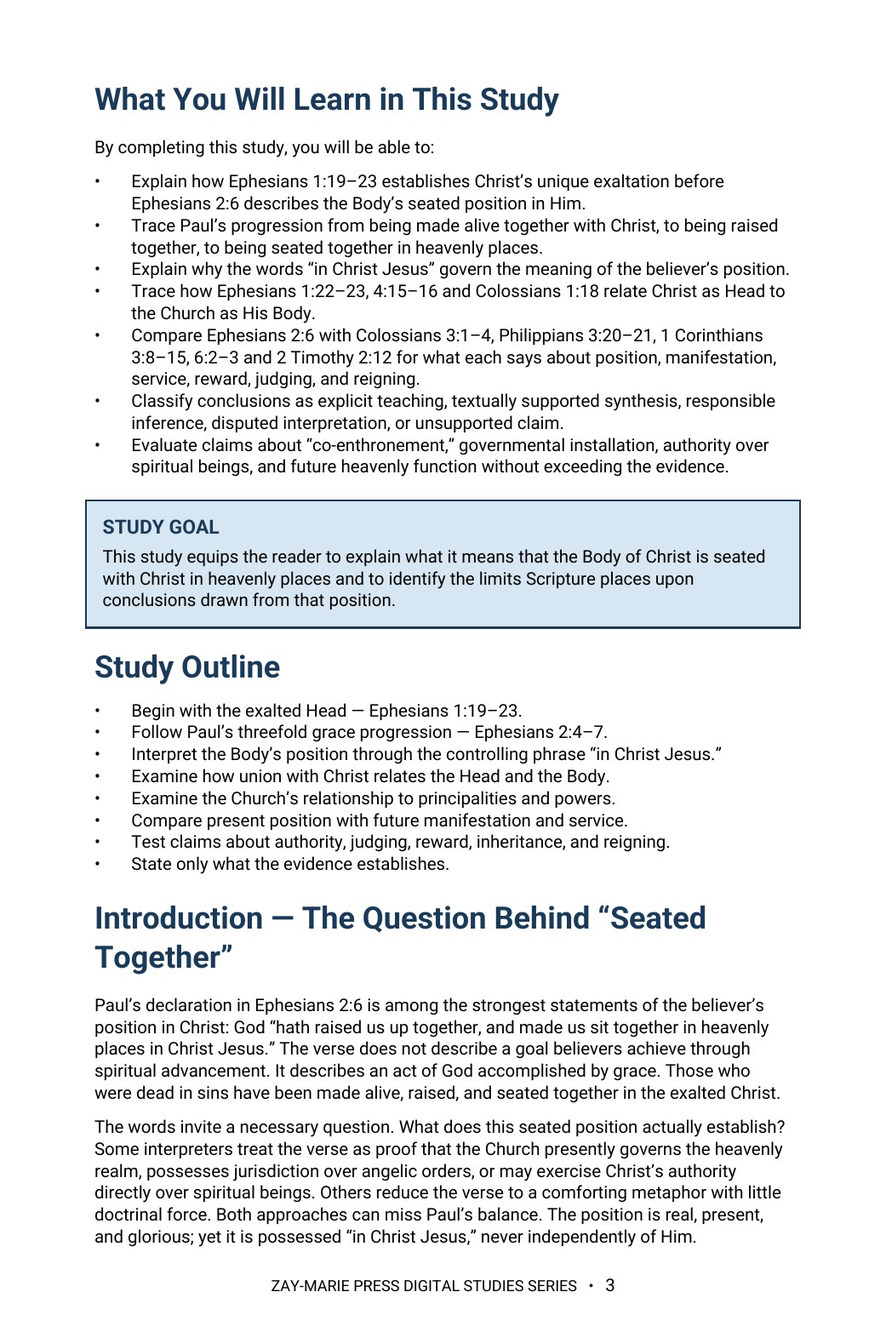
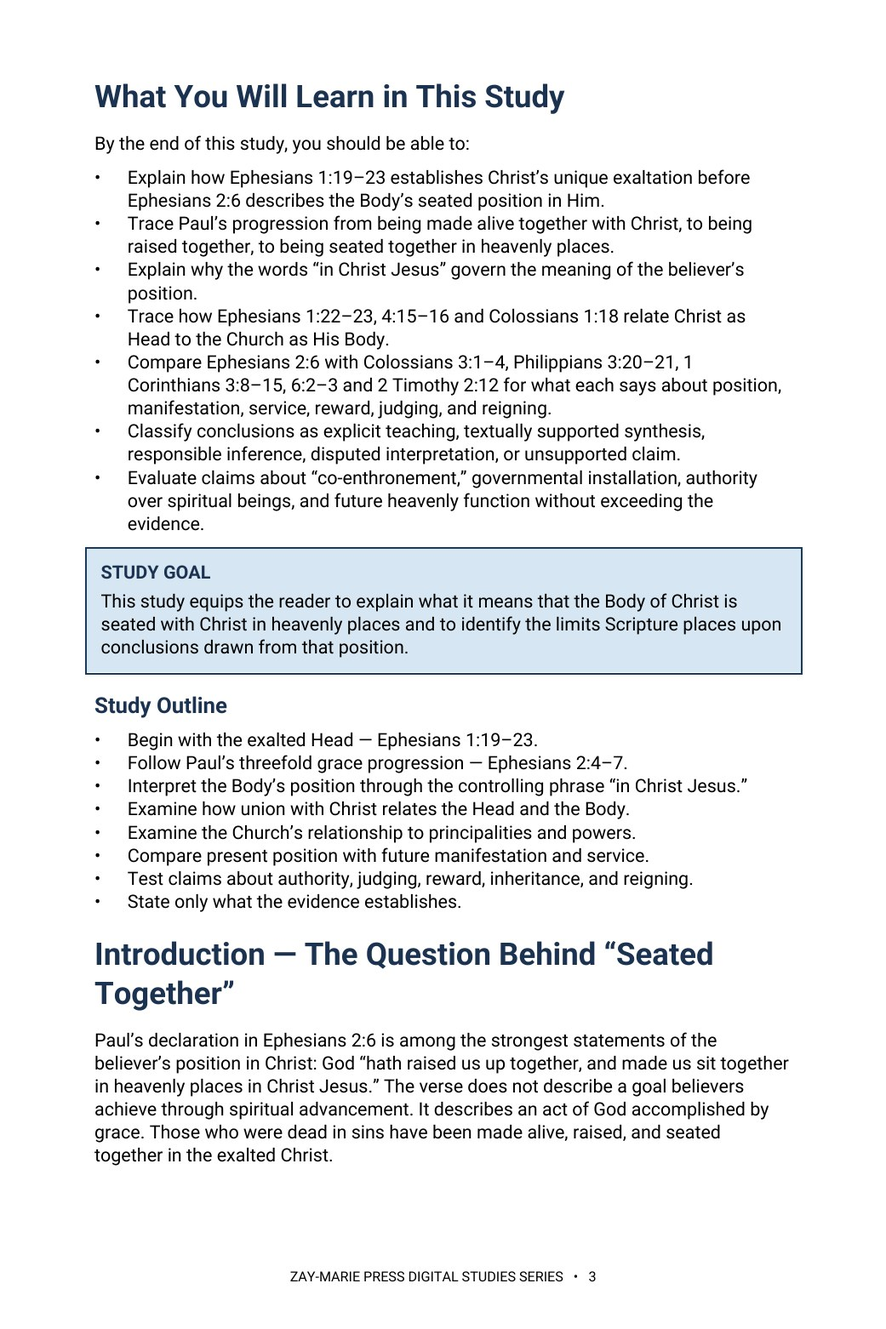
Study 30: page count 18, rebuilt preview pages and trackers for Roboto 10 pt build on current page
Claude-Session: https://claude.ai/code/session_01HC7bs9KYP2scp4hCL6DkTp

Changed region(s): [[0.0922, 0.0615, 0.9222, 0.9834]]

diff --git a/study-30-seated-with-christ-in-heavenly-places.html b/study-30-seated-with-christ-in-heavenly-places.html
@@ -2,12 +2,12 @@
 <html lang="en"><head><meta charset="utf-8"><meta name="viewport" content="width=device-width,initial-scale=1"><title>Seated With Christ in Heavenly Places - Study 30 | Zay-Marie Press</title><meta name="description" content="Examine what it means that the Body of Christ is seated with Christ, with careful boundaries for present position, future service, judging, and reigning."><link rel="stylesheet" href="styles.css?v=20260921-4"><link rel="icon" type="image/png" href="assets/zay-marie-press-favicon.png"><style>
 .study-detail-page{background:#fff;color:#252525}.detail-hero{background:linear-gradient(135deg,#f8f5ec,#e3ece2);padding:58px 0}.detail-hero-grid{display:grid;grid-template-columns:minmax(250px,.72fr) minmax(0,1.28fr);gap:58px;align-items:center}.detail-cover{max-width:390px;margin:auto}.detail-cover img{display:block;width:100%;height:auto;box-shadow:0 14px 36px rgba(8,45,69,.18)}.detail-hero h1{font-size:clamp(2.7rem,5vw,4.7rem);line-height:1.02;margin:8px 0 10px;color:#143823}.detail-subtitle{font-family:Georgia,serif;font-size:1.35rem;font-weight:700;color:#082d45;margin:0 0 7px}.detail-kicker{font-family:Georgia,serif;font-style:italic;font-size:1.05rem;color:#4a4a44;margin:0 0 22px}.detail-copy{font-size:1.08rem;line-height:1.65;max-width:760px}.detail-buyline{display:flex;align-items:center;gap:18px;flex-wrap:wrap;margin-top:25px}.detail-price{font-family:Georgia,serif;font-size:2rem;font-weight:700;color:#143823}.detail-format,.preview-card .page-no{font-family:Arial,sans-serif;font-size:.76rem;font-weight:700;letter-spacing:.1em;text-transform:uppercase;color:#176b3a}.detail-button{display:inline-block;background:#176b3a;color:#fff;padding:13px 22px;font-family:Arial,sans-serif;font-size:.8rem;font-weight:700;letter-spacing:.07em;text-transform:uppercase}.detail-button.pending{opacity:.72;cursor:default}.detail-section{padding:66px 0}.detail-section.soft{background:#f6f7f2}.detail-section.cream{background:#faf8f2}.detail-section h2{color:#143823;margin:6px 0 18px;font-size:clamp(2rem,3.4vw,3rem)}.detail-section .lead{max-width:920px;font-size:1.1rem;line-height:1.62}.study-distinction{max-width:920px;margin-top:28px;margin-bottom:28px;padding:26px 28px;background:#fff;border:1px solid #d8d1bf;border-left:4px solid #b8871c}.study-distinction h3{margin:0 0 10px;color:#143823}.study-distinction p{margin:0 0 14px;line-height:1.62}.study-distinction a{font-family:Arial,sans-serif;font-weight:700;color:#176b3a;text-decoration:none}.study-points{display:grid;grid-template-columns:repeat(3,1fr);gap:18px;margin-top:28px;margin-bottom:28px}.study-point,.scripture-card,.preview-card,.include-item{background:#fff;border:1px solid var(--line);text-align:left}.study-point{border-top:3px solid #176b3a;padding:22px}.study-point h3{color:#143823;margin:0 0 8px;font-size:1.2rem}.study-point p,.scripture-card p,.preview-card p,.include-item p{margin:0;line-height:1.55}.scripture-grid{display:grid;grid-template-columns:repeat(4,1fr);gap:14px;margin-top:24px;margin-bottom:24px}.scripture-card{padding:22px 20px;color:#143823}.scripture-card h3{margin:0 0 9px;font-family:Georgia,serif;font-size:1rem;line-height:1.35}.scripture-card p{font-size:.94rem;color:#45453f}.excerpt{max-width:900px;margin:28px auto;border-left:4px solid #b8871c;padding:10px 0 10px 28px}.excerpt blockquote{font-family:Georgia,serif;font-size:clamp(1.45rem,2.5vw,2rem);line-height:1.45;color:#143823;margin:0 0 16px}.excerpt p{line-height:1.6;margin:0}.preview-grid{display:grid;grid-template-columns:repeat(2,1fr);gap:20px;margin-top:28px;margin-bottom:28px}.preview-card{padding:18px;min-height:210px;box-shadow:0 7px 20px rgba(20,40,25,.05)}.preview-image-link{display:block;margin:0 0 18px}.preview-image-link img{display:block;width:100%;height:auto;border:1px solid #d8d1bf;box-shadow:0 8px 22px rgba(20,40,25,.1);transition:transform .18s ease,box-shadow .18s ease}.preview-image-link:hover img{transform:translateY(-2px);box-shadow:0 11px 28px rgba(20,40,25,.16)}.preview-card h3{color:#143823;margin:8px 0 10px}.preview-instruction{margin:10px 0 0;font-family:Arial,sans-serif;font-size:.78rem;letter-spacing:.04em;color:#5b5b55}.includes-grid{display:grid;grid-template-columns:repeat(4,1fr);gap:14px;margin-top:26px}.include-item{padding:22px 20px;color:#143823}.include-item h3{margin:0 0 9px;font-family:Arial,sans-serif;font-size:.86rem;line-height:1.35;letter-spacing:.02em}.include-item p{font-size:.94rem;color:#45453f}.final-buy{background:#082d45;color:#fff;border-top:4px solid #b8871c;padding:42px 48px;display:grid;grid-template-columns:1fr auto;gap:36px;align-items:center}.final-buy .eyebrow,.final-buy h2,.final-buy .detail-price{color:#fff}.final-buy h2{margin:7px 0 6px}.final-buy p{margin:0}.final-offer{text-align:center}.back-link{display:inline-block;margin-top:18px;color:#143823;font-family:Arial,sans-serif;font-weight:700;text-decoration:none}.preview-lightbox{position:fixed;inset:0;z-index:10000;display:none;align-items:flex-start;justify-content:center;background:rgba(8,22,16,.88);padding:24px;overflow:auto}.preview-lightbox.open{display:flex}.preview-lightbox img{display:block;width:auto;height:auto;max-width:none;box-shadow:0 18px 55px rgba(0,0,0,.4);background:#fff}.preview-lightbox-close{position:fixed;top:18px;right:24px;z-index:10001;width:46px;height:46px;border:1px solid rgba(255,255,255,.65);border-radius:50%;background:rgba(0,0,0,.55);color:#fff;font:32px/1 Arial,sans-serif;cursor:pointer}@media(max-width:900px){.detail-hero-grid{grid-template-columns:1fr;gap:34px}.detail-cover{max-width:330px}.study-points{grid-template-columns:repeat(2,1fr)}.scripture-grid,.includes-grid{grid-template-columns:repeat(2,1fr)}.preview-grid,.final-buy{grid-template-columns:1fr}.final-offer{text-align:left}}@media(max-width:560px){.detail-hero{padding:42px 0}.detail-section{padding:50px 0}.study-points,.scripture-grid,.includes-grid{grid-template-columns:1fr}.final-buy{padding:32px 24px}.detail-buyline{align-items:flex-start;flex-direction:column;gap:8px}.preview-lightbox{padding:58px 10px 24px}.preview-lightbox img{width:100%;max-width:100%;height:auto}}</style></head><body class="study-detail-page">
 <header class="site-header"><div class="wrap nav"><a class="logo" href="index.html" aria-label="Zay-Marie Press home"><img src="assets/zay-marie-press-logo-hq.png" alt="Zay-Marie Press" width="420" height="238"></a><button class="menu-toggle" type="button" aria-expanded="false" aria-controls="primary-nav">MENU</button><nav aria-label="Primary navigation" class="primary-nav" id="primary-nav"><a href="index.html">HOME</a><a href="books.html">BOOKS</a><a href="series.html">SERIES</a><a class="active" aria-current="page" href="digital-studies.html">DIGITAL STUDIES</a><a href="biblical-hermeneutics-course.html">COURSE</a><a href="about.html">ABOUT</a><a href="resources.html">RESOURCES</a><a href="contact.html">CONTACT</a></nav></div></header><main>
-<section class="detail-hero"><div class="wrap detail-hero-grid"><div class="detail-cover"><picture><source srcset="assets/study-30-cover.webp" type="image/webp"><img src="assets/study-30-cover.jpg" alt="Seated With Christ in Heavenly Places - Study 30 cover"></picture></div><div><div class="eyebrow">STUDY 30 · DIGITAL STUDY</div><h1>Seated With Christ in Heavenly Places</h1><p class="detail-subtitle">The Meaning, Boundaries, and Future Implications of the Body’s Position in Christ</p><p class="detail-kicker">A focused examination of Ephesians 1:19–23 and 2:4–7</p><p class="detail-copy">Paul declares that God has made believers alive, raised them, and seated them together in heavenly places in Christ Jesus. This study explains the force of that position without weakening it or expanding it beyond the evidence.</p><p class="detail-copy">Follow the distinction between Christ as Head and the Church as His Body, present position and future manifestation, and explicit teaching and responsible inference.</p><div class="detail-buyline"><span class="detail-price">$5.99</span><span class="detail-format">Digital PDF · 17 Pages</span><span class="detail-button pending" aria-disabled="true">Checkout Coming Soon</span></div></div></div></section>
+<section class="detail-hero"><div class="wrap detail-hero-grid"><div class="detail-cover"><picture><source srcset="assets/study-30-cover.webp" type="image/webp"><img src="assets/study-30-cover.jpg" alt="Seated With Christ in Heavenly Places - Study 30 cover"></picture></div><div><div class="eyebrow">STUDY 30 · DIGITAL STUDY</div><h1>Seated With Christ in Heavenly Places</h1><p class="detail-subtitle">The Meaning, Boundaries, and Future Implications of the Body’s Position in Christ</p><p class="detail-kicker">A focused examination of Ephesians 1:19–23 and 2:4–7</p><p class="detail-copy">Paul declares that God has made believers alive, raised them, and seated them together in heavenly places in Christ Jesus. This study explains the force of that position without weakening it or expanding it beyond the evidence.</p><p class="detail-copy">Follow the distinction between Christ as Head and the Church as His Body, present position and future manifestation, and explicit teaching and responsible inference.</p><div class="detail-buyline"><span class="detail-price">$5.99</span><span class="detail-format">Digital PDF · 18 Pages</span><span class="detail-button pending" aria-disabled="true">Checkout Coming Soon</span></div></div></div></section>
 <section class="detail-section"><div class="wrap"><div class="eyebrow">ABOUT THIS STUDY</div><h2>What Does the Body’s Seated Position Establish?</h2><p class="lead">Ephesians first presents Christ raised and seated far above every principality, power, might, dominion, and name. It then presents believers as made alive, raised, and seated together in Him. Christ’s exaltation is primary; the Body’s position is derivative, relational, and wholly grounded in grace.</p><p class="lead">This study tests claims about co-enthronement, governmental installation, authority over spiritual beings, judging, reward, inheritance, and reigning. It affirms what Scripture states, labels responsible inference honestly, and rejects conclusions the passages do not establish.</p><p class="lead">This is not a study of the Body’s whole heavenly calling, which Study 5 maps across position, citizenship, hope, and purpose, nor of the believer’s full identity in Christ, which Study 16 surveys across union, standing, and conduct. Its task is narrower: to test Ephesians 2:6’s specific claim — that believers are seated with Christ — against the further, more ambitious claims sometimes built on it, and to keep what the text actually establishes distinct from what is merely inferred.</p><div class="study-distinction"><h3>How These Studies Relate</h3><p>Study 30 closely tests what being seated with Christ means in Ephesians 1–2, including the limits of claims about authority and service.</p><p><a href="study-05-the-heavenly-calling.html">Study 5 — The Heavenly Calling</a> Set this focused passage study within the Body’s wider heavenly calling, citizenship, hope, and purpose; the larger framework gives context without supplying details Ephesians 2:6 does not state.</p><p><a href="study-16-the-believers-identity-in-christ.html">Study 16 — The Believer's Identity in Christ</a> Relate the seated position to the believer’s broader standing and conduct in Christ, so positional truth and daily life are kept together without confusing them.</p><p><a href="study-57-the-eternal-purpose-of-god.html">Study 57 — The Eternal Purpose of God</a> Connect the Body’s position in Ephesians 2:6 to the wisdom made known through the Church in Ephesians 3:10, while testing what each text actually says about authority.</p><p class="connection-guide-link"><a href="study-connections.html#study-30">Explore the full connection guide for Study 30 →</a></p></div></div></section>
 <section class="detail-section soft"><div class="wrap"><div class="eyebrow">WHAT YOU’LL STUDY</div><h2>Move From Christ’s Exaltation to the Body’s Position</h2><div class="study-points"><div class="study-point"><h3>Christ Above Every Authority</h3><p>Begin with the exalted Head before interpreting the Body’s seated position.</p></div><div class="study-point"><h3>Made Alive, Raised, and Seated</h3><p>Follow Paul’s threefold grace progression in Ephesians 2:4–7.</p></div><div class="study-point"><h3>In Christ Jesus</h3><p>Let union with Christ govern the meaning and boundaries of the doctrine.</p></div><div class="study-point"><h3>Head and Body</h3><p>Trace how Ephesians 1:22–23, 4:15–16 and Colossians 1:18 relate Christ as Head to the Church as His Body.</p></div><div class="study-point"><h3>Principalities and Powers</h3><p>Compare what Ephesians 3:10 says the Church does before principalities and powers with claims of present jurisdiction over spiritual beings.</p></div><div class="study-point"><h3>Position and Future Function</h3><p>Compare Ephesians 2:6 with Colossians 3:1–4, Philippians 3:20–21 and 1 Corinthians 3:8–15 and 6:2–3 on position, manifestation, service, reward, judging, and reigning.</p></div></div></div></section>
 <section class="detail-section cream"><div class="wrap"><div class="eyebrow">KEY SCRIPTURES</div><h2>Build the Doctrine From the Text</h2><div class="scripture-grid"><div class="scripture-card"><h3>Ephesians 1:19–23</h3><p>Christ raised, seated, and placed far above every authority as Head over all things to the Church.</p></div><div class="scripture-card"><h3>Ephesians 2:4–7</h3><p>The Body made alive, raised, and seated together in heavenly places in Christ Jesus.</p></div><div class="scripture-card"><h3>Ephesians 3:8–11</h3><p>God’s manifold wisdom made known through the Church to heavenly authorities.</p></div><div class="scripture-card"><h3>Ephesians 6:10–18</h3><p>Spiritual conflict answered through God’s armor, prayer, watchfulness, and steadfastness.</p></div><div class="scripture-card"><h3>Colossians 2:9–10</h3><p>Completeness in Christ, who remains Head of all principality and power.</p></div><div class="scripture-card"><h3>Colossians 3:1–4</h3><p>Present hidden life with Christ and future manifestation with Him in glory.</p></div><div class="scripture-card"><h3>1 Corinthians 6:2–3</h3><p>Future judging of the world and angels without present independent jurisdiction.</p></div><div class="scripture-card"><h3>2 Timothy 2:11–13</h3><p>Reigning with Christ considered in its context of endurance and faithfulness.</p></div></div></div></section>
 <section class="detail-section"><div class="wrap"><div class="eyebrow">FROM THE STUDY</div><h2>Union Does Not Erase Headship</h2><div class="excerpt"><blockquote>“The Body’s seated position is greater than a metaphor but more carefully bounded than triumphalistic interpretations allow.”</blockquote><p>The safest controlling statement is direct: believers are seated with Christ because they are in Christ. Participation in the Head’s life and purpose does not erase the distinction between the Head and His Body.</p></div></div></section>
 <section class="detail-section soft"><div class="wrap"><div class="eyebrow">A LOOK INSIDE</div><h2>Preview the Study Before You Purchase</h2><p class="preview-instruction">Click any page to enlarge it for reading.</p><div class="preview-grid"><div class="preview-card"><a class="preview-image-link" data-preview-lightbox href="assets/study-30-page-2.jpg"><img src="assets/study-30-page-2.jpg" alt="Study 30 interior preview — page 2, table of contents"></a><div class="page-no">Page 2</div><h3>Table of Contents</h3><p>See the full structure of the study, from the introduction through the final synthesis.</p></div><div class="preview-card"><a class="preview-image-link" data-preview-lightbox href="assets/study-30-page-3.jpg"><img src="assets/study-30-page-3.jpg" alt="Study 30 interior preview — page 3, what you will learn and study outline"></a><div class="page-no">Page 3</div><h3>What You Will Learn</h3><p>Begin with the outcomes you will work toward and the route the study takes through Ephesians, Colossians, and the Corinthian and Timothy passages.</p></div><div class="preview-card"><a class="preview-image-link" data-preview-lightbox href="assets/study-30-page-5.jpg"><img src="assets/study-30-page-5.jpg" alt="Study 30 interior preview — page 5, Christ’s headship in Ephesians 1"></a><div class="page-no">Page 5</div><h3>Christ’s Headship and the Church</h3><p>Read what Ephesians 1:19–23 explicitly establishes before turning to the Body’s position in Ephesians 2.</p></div></div></div></section>
-<section class="detail-section"><div class="wrap"><div class="eyebrow">WHAT’S INCLUDED</div><h2>A Focused Study Built for<br>Understanding and Teaching</h2><div class="includes-grid"><div class="include-item"><h3>17-Page Biblical Study</h3><p>A concentrated doctrinal examination without padding or repetition of Study 5.</p></div><div class="include-item"><h3>Ten Teaching Sections</h3><p>Move from Christ’s exaltation through position, boundaries, evidence, and application.</p></div><div class="include-item"><h3>Six Doctrinal Controls</h3><p>Retain headship, grace, union, evidence, time, and interpretive boundaries.</p></div><div class="include-item"><h3>Evidence Ledger</h3><p>Separate explicit teaching, synthesis, inference, disputed language, and unsupported claims.</p></div><div class="include-item"><h3>Scripture-Tracing Exercise</h3><p>Record subjects, actions, time horizons, and what each passage leaves unstated.</p></div><div class="include-item"><h3>Fourteen Review Questions</h3><p>Test the argument concerning position, authority, manifestation, judging, and reigning.</p></div><div class="include-item"><h3>Teaching Outline</h3><p>A ready framework for presenting the doctrine with clarity and restraint.</p></div><div class="include-item"><h3>Guided Further Study</h3><p>Extend the investigation across Ephesians, Colossians, Corinthians, and Timothy.</p></div></div></div></section>
-<section class="detail-section cream"><div class="wrap"><div class="final-buy"><div><div class="eyebrow">STUDY 30 · DIGITAL STUDY</div><h2>Seated With Christ in Heavenly Places</h2><p>Digital PDF · 17 Pages · For personal use</p></div><div class="final-offer"><div class="detail-price">$5.99</div><span class="detail-button pending" aria-disabled="true">Checkout Coming Soon</span></div></div><a class="back-link" href="digital-studies.html">← Back to All Digital Studies</a></div></section><section class="study-method-course-bridge"><div class="wrap"><div class="study-method-course-panel"><div><div class="eyebrow">BUILD THE INTERPRETIVE METHOD</div><h2>Want More Than a Focused Study?</h2><p>Digital Studies examine particular biblical subjects and difficult passages. The 40-lesson Biblical Hermeneutics course teaches a complete, repeatable method for establishing meaning in context, determining proper assignment, and making responsible application.</p></div><a class="btn btn-primary" href="biblical-hermeneutics-course.html">BIBLICAL HERMENEUTICS COURSE</a></div></div></section></main>
+<section class="detail-section"><div class="wrap"><div class="eyebrow">WHAT’S INCLUDED</div><h2>A Focused Study Built for<br>Understanding and Teaching</h2><div class="includes-grid"><div class="include-item"><h3>18-Page Biblical Study</h3><p>A concentrated doctrinal examination without padding or repetition of Study 5.</p></div><div class="include-item"><h3>Ten Teaching Sections</h3><p>Move from Christ’s exaltation through position, boundaries, evidence, and application.</p></div><div class="include-item"><h3>Six Doctrinal Controls</h3><p>Retain headship, grace, union, evidence, time, and interpretive boundaries.</p></div><div class="include-item"><h3>Evidence Ledger</h3><p>Separate explicit teaching, synthesis, inference, disputed language, and unsupported claims.</p></div><div class="include-item"><h3>Scripture-Tracing Exercise</h3><p>Record subjects, actions, time horizons, and what each passage leaves unstated.</p></div><div class="include-item"><h3>Fourteen Review Questions</h3><p>Test the argument concerning position, authority, manifestation, judging, and reigning.</p></div><div class="include-item"><h3>Teaching Outline</h3><p>A ready framework for presenting the doctrine with clarity and restraint.</p></div><div class="include-item"><h3>Guided Further Study</h3><p>Extend the investigation across Ephesians, Colossians, Corinthians, and Timothy.</p></div></div></div></section>
+<section class="detail-section cream"><div class="wrap"><div class="final-buy"><div><div class="eyebrow">STUDY 30 · DIGITAL STUDY</div><h2>Seated With Christ in Heavenly Places</h2><p>Digital PDF · 18 Pages · For personal use</p></div><div class="final-offer"><div class="detail-price">$5.99</div><span class="detail-button pending" aria-disabled="true">Checkout Coming Soon</span></div></div><a class="back-link" href="digital-studies.html">← Back to All Digital Studies</a></div></section><section class="study-method-course-bridge"><div class="wrap"><div class="study-method-course-panel"><div><div class="eyebrow">BUILD THE INTERPRETIVE METHOD</div><h2>Want More Than a Focused Study?</h2><p>Digital Studies examine particular biblical subjects and difficult passages. The 40-lesson Biblical Hermeneutics course teaches a complete, repeatable method for establishing meaning in context, determining proper assignment, and making responsible application.</p></div><a class="btn btn-primary" href="biblical-hermeneutics-course.html">BIBLICAL HERMENEUTICS COURSE</a></div></div></section></main>
 <div class="preview-lightbox" id="preview-lightbox" role="dialog" aria-modal="true" aria-label="Expanded study preview"><button class="preview-lightbox-close" type="button" aria-label="Close preview">×</button><img id="preview-lightbox-image" alt=""></div><footer class="site-footer"><div class="wrap footer-grid"><div class="footer-about"><h3>Zay-Marie Press</h3><p class="footer-tagline"><em>Where the Bible Means What It Says.</em></p><p>Zay-Marie Press is a Christian theological publisher dedicated to producing doctrinally precise, carefully structured biblical resources that equip pastors, teachers, and serious students with clarity, depth, and Scripture-anchored truth.</p><p><a href="https://zaymariepress.com">zaymariepress.com</a><br><a href="mailto:info@zaymariepress.com">info@zaymariepress.com</a></p></div><div class="footer-column"><h3>Explore</h3><div class="footer-links-stacked"><a href="books.html">Books</a><br><a href="series.html">Series</a><br><a href="biblical-hermeneutics-course.html">Course</a><br><a href="digital-studies.html">Digital Studies</a><br><a href="resources.html">Resources</a><br><a href="bible-book-summaries.html">Bible Book Summaries</a><br><a href="doctrinal-packets.html">Doctrinal Packets</a><br><a href="historical-drift.html">Historical Drift</a><br><a href="about.html">About</a><br><a href="contact.html">Contact</a></div></div><div class="footer-column"><h3>Reader Support</h3><div class="footer-links-stacked"><a href="reader-support.html#faq">FAQ</a><br><a href="reader-support.html#shipping-returns">Shipping &amp; Returns</a><br><a href="reader-support.html#digital-downloads">Digital Downloads</a><br><a href="reader-support.html#contact-support">Contact Support</a></div></div><div class="footer-column"><h3>Acts Overlap</h3><p><strong>Acts Overlap Theology Series</strong></p><p><em>Two Distinct Streams. One Overlap.</em></p><p><a href="series.html">Series Overview</a></p></div></div><div class="wrap footer-bottom">© 2026 Zay-Marie Press. All rights reserved.</div></footer><script src="site.js"></script><script>const lightbox=document.getElementById('preview-lightbox'),lightboxImage=document.getElementById('preview-lightbox-image'),closeLightbox=()=>{lightbox.classList.remove('open');lightboxImage.src='';};document.querySelectorAll('[data-preview-lightbox]').forEach(link=>link.addEventListener('click',event=>{event.preventDefault();lightboxImage.src=link.href;lightboxImage.alt=link.querySelector('img').alt;lightbox.classList.add('open');}));document.querySelector('.preview-lightbox-close').addEventListener('click',closeLightbox);lightbox.addEventListener('click',event=>{if(event.target===lightbox)closeLightbox();});document.addEventListener('keydown',event=>{if(event.key==='Escape')closeLightbox();});</script></body></html>

diff --git a/site.js b/site.js
@@ -62,7 +62,7 @@ const resourceModal=document.querySelector('#resource-modal'), resourceModalTitl
 if(resourceModal&&resourceModalTriggers.length){const closeResourceModal=()=>{resourceModal.hidden=true;document.body.classList.remove('resource-modal-open');lastResourceTrigger?.focus();};resourceModalTriggers.forEach(trigger=>trigger.addEventListener('click',()=>{lastResourceTrigger=trigger;if(resourceModalTitle)resourceModalTitle.textContent=trigger.dataset.title||'Resource';if(resourceModalDescription)resourceModalDescription.textContent=trigger.dataset.description||'';if(resourceModalLink){resourceModalLink.href=trigger.dataset.href||'#';resourceModalLink.textContent=trigger.dataset.linkText||'OPEN RESOURCE';}resourceModal.hidden=false;document.body.classList.add('resource-modal-open');resourceModalClose?.focus();}));resourceModalClose?.addEventListener('click',closeResourceModal);resourceModal.addEventListener('click',e=>{if(e.target===resourceModal)closeResourceModal();});document.addEventListener('keydown',e=>{if(e.key==='Escape'&&!resourceModal.hidden)closeResourceModal();});}
 
 /* Display the verified final-PDF page count at the primary purchase decision point. */
-const digitalStudyPageCounts={1:17,2:19,3:16,4:17,5:15,6:15,7:14,8:13,9:15,10:20,11:15,12:15,13:18,14:15,15:15,16:16,17:17,18:18,19:16,20:15,21:16,22:15,23:14,24:16,25:17,26:16,27:16,28:17,29:19,30:17,31:18,32:19,33:18,34:16,35:16,36:16,37:16,38:16,39:16,40:16,41:16,42:17,43:17,44:19,45:19,46:20,47:19,48:18,49:20,50:19,51:20,52:19,53:19,54:17,55:20,56:20,57:20,58:19,59:20,60:15,61:16,62:18,63:17,64:17,65:16,66:16,67:17,68:16,69:17,70:17,71:16};
+const digitalStudyPageCounts={1:17,2:19,3:16,4:17,5:15,6:15,7:14,8:13,9:15,10:20,11:15,12:15,13:18,14:15,15:15,16:16,17:17,18:18,19:16,20:15,21:16,22:15,23:14,24:16,25:17,26:16,27:16,28:17,29:19,30:18,31:18,32:19,33:18,34:16,35:16,36:16,37:16,38:16,39:16,40:16,41:16,42:17,43:17,44:19,45:19,46:20,47:19,48:18,49:20,50:19,51:20,52:19,53:19,54:17,55:20,56:20,57:20,58:19,59:20,60:15,61:16,62:18,63:17,64:17,65:16,66:16,67:17,68:16,69:17,70:17,71:16};
 const digitalStudyMatch=window.location.pathname.match(/\/study-(\d+)-/i);
 const digitalStudyFormat=document.querySelector('.detail-hero .detail-format');
 if(digitalStudyMatch&&digitalStudyFormat){const studyNumber=Number(digitalStudyMatch[1]),pageCount=digitalStudyPageCounts[studyNumber];if(pageCount)digitalStudyFormat.textContent=`Digital PDF · ${pageCount} Pages`;}

diff --git a/CLAUDE.md b/CLAUDE.md
@@ -23,7 +23,7 @@ These are kept in the repo at `controlling-documents/` and are the current versi
 - As of v1.50 (publisher directive, 2026-10-03), the **What You Will Learn in This Study** section is always bulleted, never set as running paragraphs, written into this file in the same pass (Master Standard Section 3 item 4, Section 6 structure line, Section 22): a list of bullet points, each describing one process, textual marker or interpretive discipline the reader will practice (Section 17 still governs what they may say); at most one short lead-in line may stand above the bullets (for example, “By the end of this study, you should be able to:”); the Study Goal callout and the Study Outline keep their own forms. It governs every new study and every study rebuilt or retrofitted from now on; earlier studies take it when reopened or when the publisher directs. In every study check (Step 1), report whether the section is bulleted. First applied to Study 43.
 **`controlling-documents/Digital_Studies_Relationship_Map_v1.39.md`** — records each study's distinct subject, its related studies, the eight priced six-study collections, the Paul's Missionary Journeys cross-reference map, and the five primary catalog categories (currently version 1.39, covers Studies 1–71; update it as new studies publish, bump the version number, rename the file to match, and log the change in its own version-history table — mirroring the Master Standard's `_vX.Y` filename convention). Check a proposed topic against it before recommending or writing a new study. (2026-09-28: the file was missing from this repo despite this note referencing it; replaced from the publisher's copy and bumped v1.15→v1.25 in the same pass. If this note ever again points to a version not present under `controlling-documents/`, ask the publisher for a copy rather than proceeding without the check.)
 - **`controlling-documents/Digital_Studies_Category_Standard_v1.1.md`** — FINAL and binding (publisher, 2026-10-01): the rules for the five primary catalog categories (Foundations, Israel & Prophecy, Body of Christ, Passages, Doctrinal Themes), the ordered decision procedure for new studies, the precedents, all 71 fixed assignments, and the cover-label form for each category. Read it before placing any card or cover label. Do not ask the publisher where a study belongs; apply the procedure and state the result. Only the publisher changes a ruling; then bump this Standard's version and filename, re-letter the cover, and update the Relationship Map.
-- **`controlling-documents/Doctrinal_Upgrade_Retrofit_Plan_v1.111.md`** — working tracker for retrofitting Studies 1–59 to the 2026-10-02 doctrinal upgrade (Framework/PAM v1.1, Master Standard v1.40, Rules 7–17): withdrawn-wording search keys, impact tiers, waves and the per-study method. Read it before continuing the retrofit in any session; update status, bump the version and rename the file as work proceeds.
+- **`controlling-documents/Doctrinal_Upgrade_Retrofit_Plan_v1.112.md`** — working tracker for retrofitting Studies 1–59 to the 2026-10-02 doctrinal upgrade (Framework/PAM v1.1, Master Standard v1.40, Rules 7–17): withdrawn-wording search keys, impact tiers, waves and the per-study method. Read it before continuing the retrofit in any session; update status, bump the version and rename the file as work proceeds.
 - **`controlling-documents/Doctrinal_Packet_Standard_v0.3.md`** — Doctrinal Packet Standard (DRAFT; §7 approved). Governs the separate Doctrinal Packets product strand (5-page interpretive PDFs per Bible book — a print-friendly cover as page 1 plus 4 content pages, $2.99, KJV, pilot: Genesis, live at `packet-genesis.html`, hub `doctrinal-packets.html`; site pages say "5 Pages", cover styles live in `packets.css`, Old Testament blue and New Testament soft pale green, hub listed in Bible order). **Preview rule (publisher directive, 2026-09-29, packets only):** previews show about one page's worth in two cropped views (top of page 1 through the anchor texts; the chart section) — never the exegesis, architecture, Mystery contrast, logic chain, outline, or closing. Master Standard §16/§17 still govern Digital Studies. Bump the version and rename the file as the Standard is finalized.
 - **`controlling-documents/Preview_Page_Spoiler_Retrofit_Audit_v1.4.md`** — working tracker for the Studies 1–60 preview-page conclusion-spoiler retrofit (see the section below). Read it before continuing that audit in any session; update its status fields and changelog, bump the version, and rename the file to match as the audit proceeds — same `_vX.Y` convention as the other controlling documents. As of v1.1, the website-side half was DONE: all 60 studies' "What You'll Study" text was judged against the rule (methodology documented in the file) and 22 points across 11 studies were rewritten and pushed; an unrelated Study 22 content bug (Study 21's content had leaked into it) was also found and fixed. As of v1.2, the publisher supplied Studies 1–60's interior production PDFs and the interior-PDF half was also surveyed (read-only): 10 studies (37, 41, 45, 47, 48, 49, 51, 52, 53, 54) were found to have at least one interior "What You Will Learn" violation, 50 studies were confirmed compliant, and the orphaned `assets/study-45-sanctification-under-grace.docx` (removed from the repo per the publisher in v1.0) was confirmed word-for-word identical to Study 45's actual production interior PDF content. As of v1.3, the publisher supplied editable DOCX sources for all 10 violating studies; all 15 violating points were rewritten and approved, delivered as corrected final PDFs, and — along the way — a second defect was found and fixed (Studies 47 and 48's source DOCX still had an unintegrated cover placeholder despite both being long-published live with real covers; fixed by inserting the existing approved cover art). The website's "What You Will Learn" preview image (`study-NN-page-3.jpg`) was regenerated from the corrected content for all 10 studies and pushed to `main` (commit `cea1859`), verified against a fresh clone. **The website side of this audit is now fully compliant for all 60 studies.** Outstanding: the publisher's purchasable interior PDF files themselves have corrected versions delivered, but distribution to existing purchasers was decided by the publisher on 2026-09-29: silent swap of the files behind the existing downloads, no reissue notice (recorded in the v1.4 changelog entry; the product files are not in this repo).
 

diff --git a/controlling-documents/Doctrinal_Upgrade_Retrofit_Plan_v1.112.md b/controlling-documents/Doctrinal_Upgrade_Retrofit_Plan_v1.112.md
@@ -204,3 +204,4 @@ Working tracker for correcting published studies to the Framework/PAM v1.1, Mast
 - v1.109 (2026-10-04): Study 25 rebuilt in Roboto at 10 pt on the current page, 17 pages (unchanged from the old 432×648 build). WYWL opening paragraph removed and lead-in added (eight bullets already process lines, kept); three 'The Framework…' sentences and two 'framework' phrases reworded; Rule 19 sentence added in section 3 (publisher-approved: baptism is a program requirement, not a ground of salvation or a Body requirement); overlap, Rule 17, Rule 11 and Rule 18 short-form sentences added; stray duplicated Review-question paragraph in Scripture-Tracing removed; Teaching Outline numbered.
 - v1.110 (2026-10-04): Study 27 rebuilt in Roboto at 10 pt on the current page, 16 pages (unchanged from the old 432×648 build). WYWL lead-in standardized (eight bullets already process lines, kept); 'revealed framework' reworded; Acts 28 wording conformed (nationally suspended—not canceled, transferred or absorbed); overlap and Rule 17 sentences added after the Pentecost paragraph; reader-facing Hebrews sentence added after the Day of Atonement/Hebrews paragraph; Teaching Outline numbered.
 - v1.111 (2026-10-04): Study 28 rebuilt in Roboto at 10 pt on the current page, 17 pages (was 16 on the old 432×648 page). WYWL lead-in standardized (ten bullets already process lines, kept); three 'Framework' references removed (Hebrews sentence now the reader-facing covenant sentence; 'which the Framework locates in the Mystery' now 'which belongs to the Mystery'); 'Acts Overlap framework' reworded; withdrawn 'finished work … only/sole ground' wording in the Introduction and section 14 replaced with Rule 19 wording (publisher-approved); overlap and Rule 17 sentences added in section 14; Teaching Outline numbered.
+- v1.112 (2026-10-04): Study 30 rebuilt in Roboto at 10 pt on the current page, 18 pages (was 17 on the old 432×648 page). WYWL lead-in standardized (seven bullets already process lines, kept); 'The controlling Framework…/the Framework's doctrinal position' reworded to study-owned wording; Acts 28 wording conformed (nationally suspended—not canceled, transferred or absorbed); overlap and Rule 17 sentences added; duplicated 1 Corinthians 3:8–15 paragraph removed; Teaching Outline numbered.

diff --git a/controlling-documents/Digital_Studies_PAM_Audit_v1.206.md b/controlling-documents/Digital_Studies_PAM_Audit_v1.206.md
@@ -435,3 +435,4 @@ Study 15 PDF not yet supplied. Typography: none of Studies 2, 3, 6, 8 is in EB G
 - v1.203 (2026-10-04): Study 25 rebuilt in Roboto at 10 pt on the current page, 17 pages; Framework wording removed; Rule 19, overlap, Rule 17, Rule 11 and Rule 18 sentences added; Teaching Outline numbered (see Retrofit Plan v1.109).
 - v1.204 (2026-10-04): Study 27 rebuilt in Roboto at 10 pt on the current page, 16 pages; Acts 28 wording conformed; overlap, Rule 17 and Hebrews sentences added; Teaching Outline numbered (see Retrofit Plan v1.110).
 - v1.205 (2026-10-04): Study 28 rebuilt in Roboto at 10 pt on the current page, 17 pages; withdrawn finished-work shared-ground wording replaced with Rule 19; Framework wording removed; overlap and Rule 17 sentences added; Teaching Outline numbered (see Retrofit Plan v1.111).
+- v1.206 (2026-10-04): Study 30 rebuilt in Roboto at 10 pt on the current page, 18 pages; Framework wording removed; Acts 28 wording conformed; overlap and Rule 17 sentences added; duplicate paragraph removed; Teaching Outline numbered (see Retrofit Plan v1.112).
